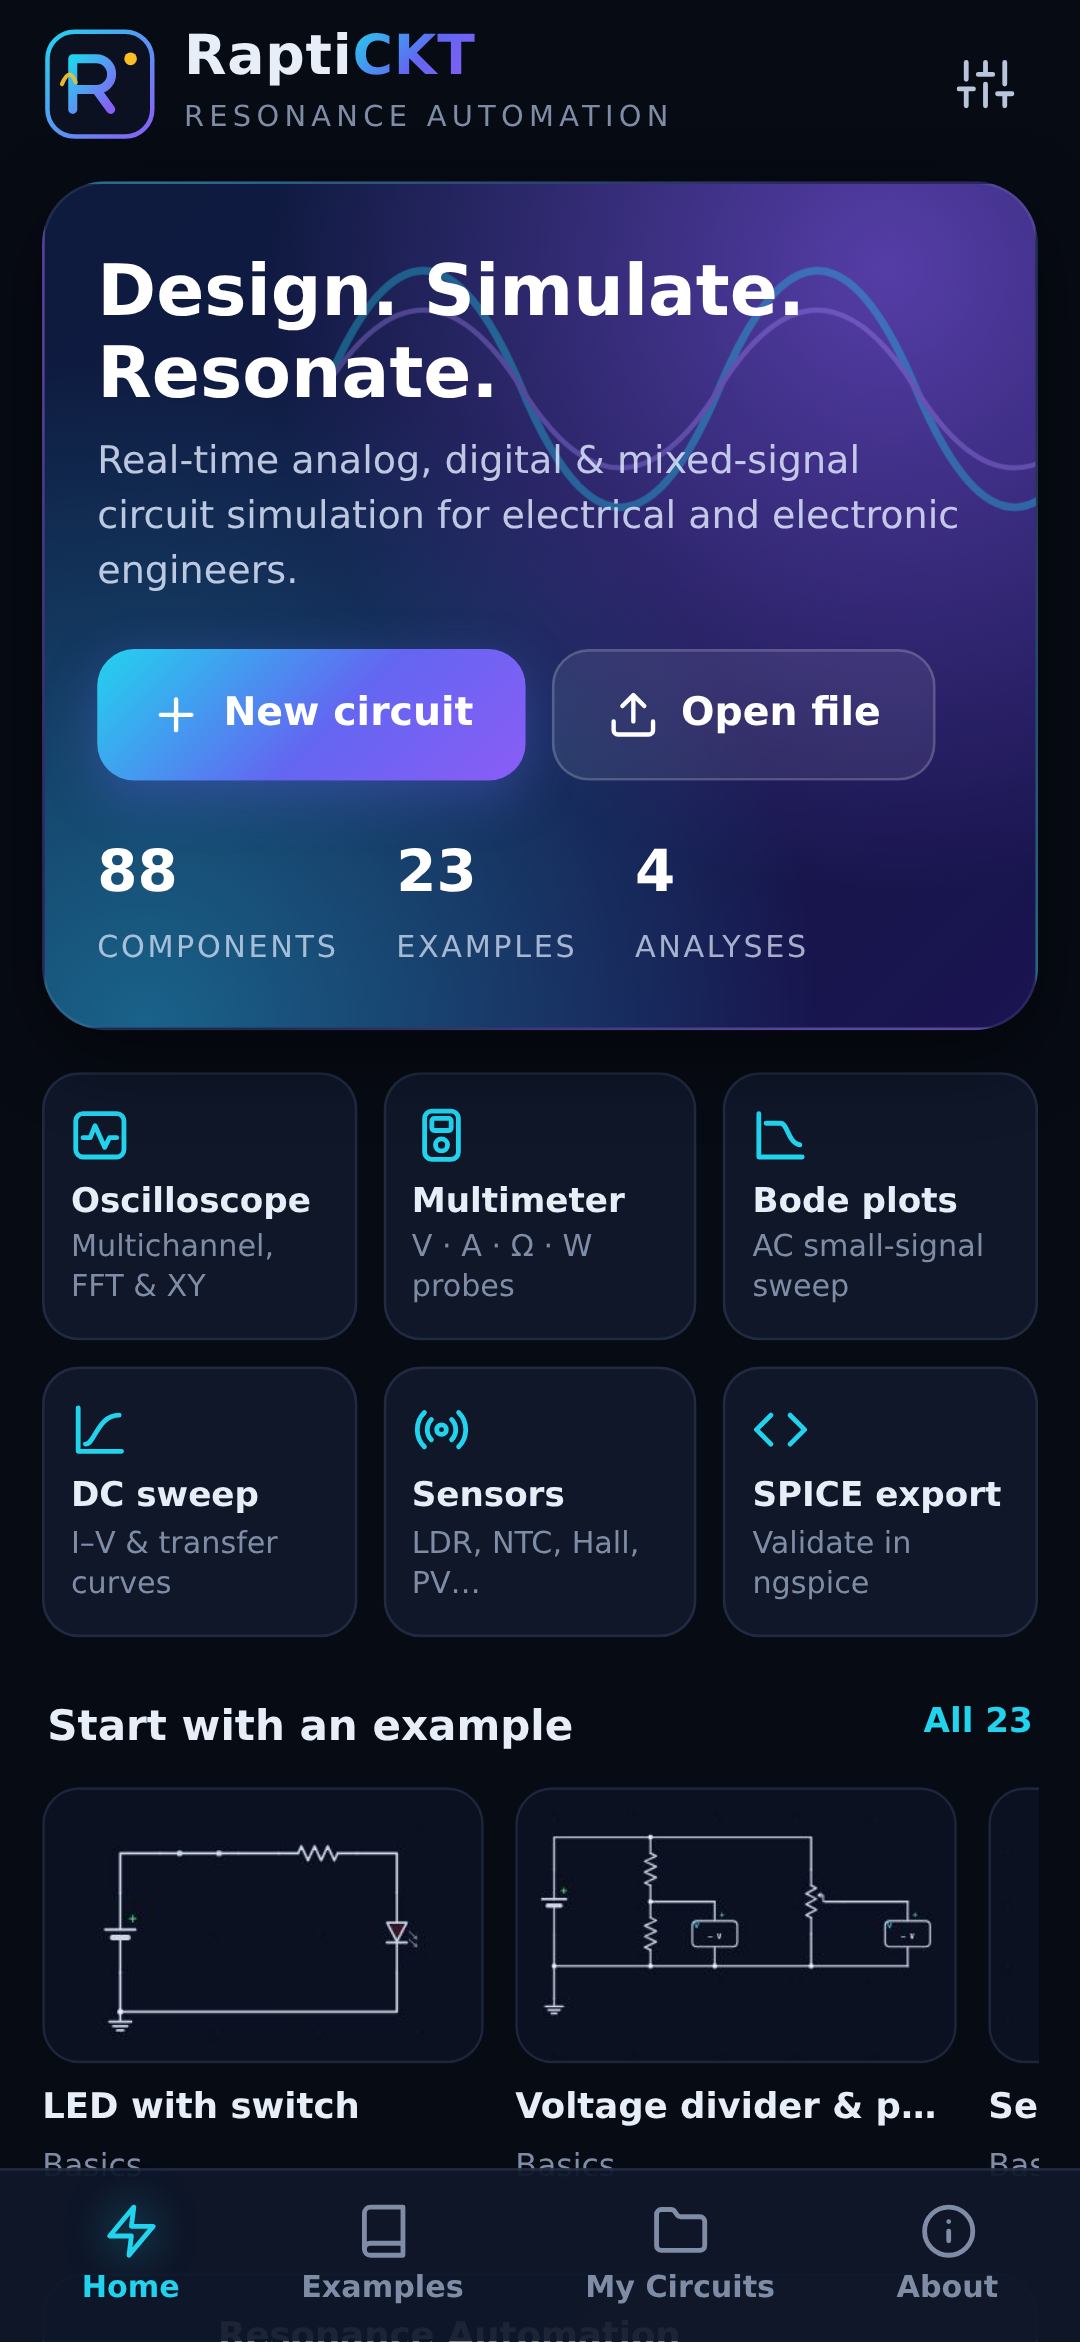
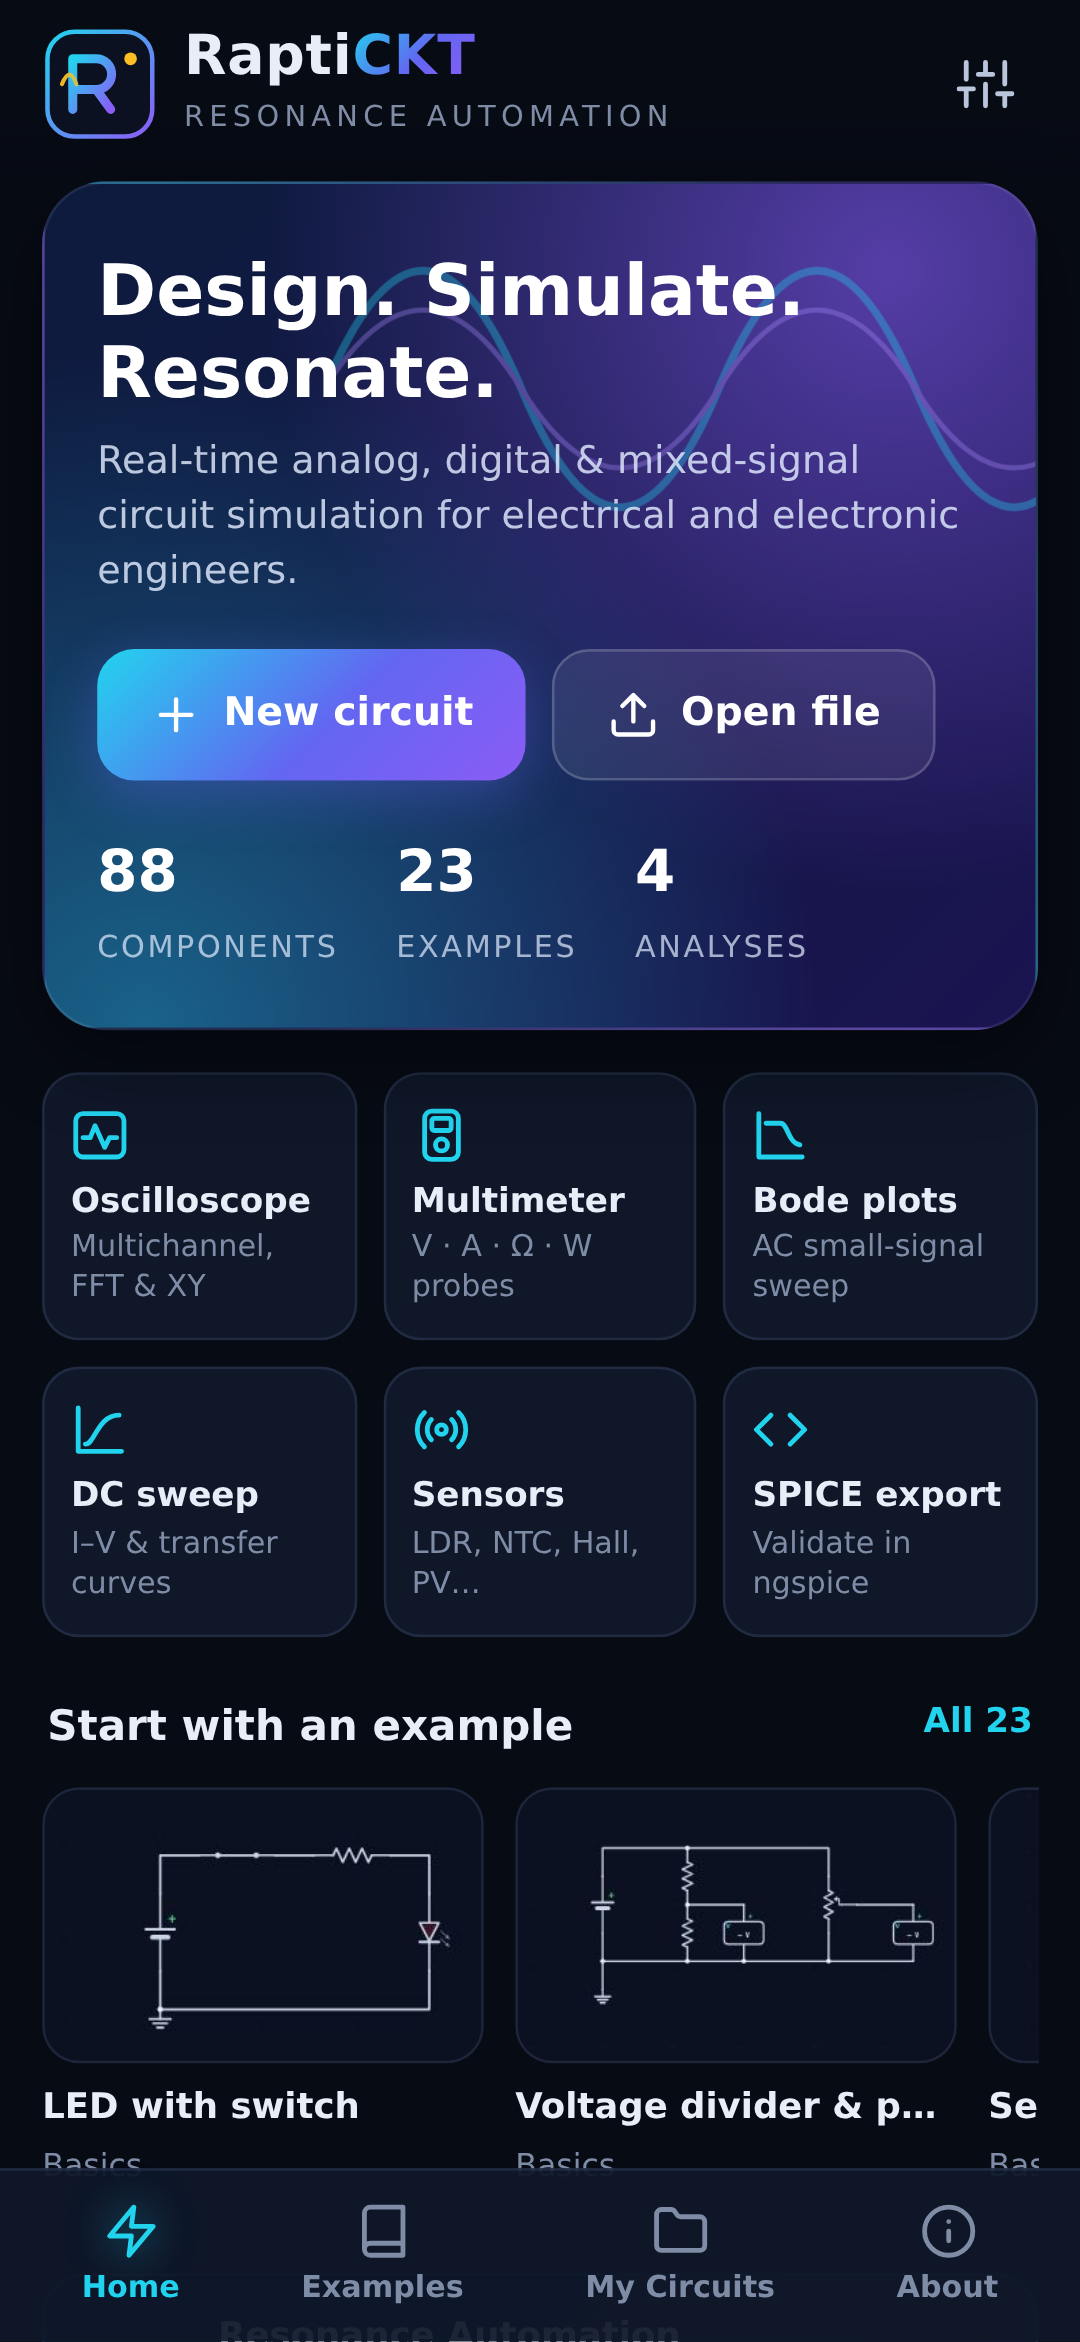
Show live voltages and currents on the schematic
While the simulation runs, every net shows its voltage (blue) and every
two-terminal part shows its current with a direction arrow (green), in
the style of EveryCircuit.

- Placement is scored against part bodies, value labels, wires, probe
  pins and the other readings, so nothing overlaps. The layout is cached
  and only recomputed when the geometry or the solver changes.
- A current reading goes opposite the value label, or is stacked under
  the label when that side is crowded.
- Solver residue (below 1 nV / 100 pA) reads as zero.
- Fit reserves room for the current readings.
- New Settings toggles: "Live node voltages" and "Live currents". Both
  follow the eye button.
- Widened the half-wave rectifier example so its readings have room.

Claude-Session: https://claude.ai/code/session_0114afxraatNUHQJoUJDSS6D

diff --git a/web/src/ui/render.js b/web/src/ui/render.js
@@ -1,7 +1,7 @@
 // Canvas renderer: grid, wires, components, animated current, overlays.
 
 import { GRID } from '../elements/index.js';
-import { fmtShort } from '../engine/units.js';
+import { fmtShort, fmtSI } from '../engine/units.js';
 
 const key = (x, y) => Math.round(x) + ',' + Math.round(y);
 
@@ -353,7 +353,10 @@ export class Renderer {
     }
 
     // labels
-    if (st.settings.showValues !== false) this.drawLabels(st, g);
+    if (st.settings.showValues !== false) {
+      this.drawLabels(st, g);
+      if (running) this.drawLive(st, sim);
+    }
 
     // probes
     for (const pr of st.probes || []) this.drawProbe(pr, g, st);
@@ -464,6 +467,159 @@ export class Renderer {
       const o = e.labelAnchor();
       g.text(txt, o[0], o[1], { size: 10.5, color: th.text2, align: o[2], baseline: o[3], bold: true, follow: false });
     }
+  }
+
+  /** EveryCircuit-style live annotations: net voltages on wires, part currents beside parts. */
+  drawLive(st, sim) {
+    const ctx = this.ctx, th = st.theme, set = st.settings;
+    const volts = set.liveVolts !== false, amps = set.liveAmps !== false;
+    if (!volts && !amps) return;
+    const lay = this.liveLayout(st, sim);
+    ctx.font = '600 10px Inter, system-ui, sans-serif';
+    ctx.lineJoin = 'round';
+    ctx.lineWidth = 3;
+    ctx.strokeStyle = th.bg;
+    const put = (txt, x, y, align, base, col) => {
+      ctx.textAlign = align; ctx.textBaseline = base;
+      ctx.strokeText(txt, x, y); // halo keeps text legible over wires and grid
+      ctx.fillStyle = col; ctx.fillText(txt, x, y);
+    };
+    if (volts) {
+      for (const L of lay.volts) {
+        const v = sim.nodeVoltage(L.node);
+        put(fmtSI(Math.abs(v) < 1e-9 ? 0 : v, 'V', 3), L.x, L.y, L.align, L.base, th.vLabel);
+      }
+    }
+    if (amps) {
+      for (const L of lay.amps) {
+        const i = L.el.liveCurrent();
+        if (i == null || !Number.isFinite(i)) continue;
+        const a = Math.abs(i) < 1e-10 ? 0 : i; // gmin-level residue reads as zero
+        const arrow = !a ? '' : (a > 0 ? L.fwd : L.back) + ' ';
+        put(arrow + fmtSI(Math.abs(a), 'A', 3), L.x, L.y, L.align, L.base, th.iLabel);
+      }
+    }
+  }
+
+  /** Placement of live labels; recomputed only when the circuit geometry or the solver changes. */
+  liveLayout(st, sim) {
+    const doc = st.doc;
+    let sig = doc.wires.length + '|' + (st.settings.showNames ? 1 : 0);
+    for (const e of doc.elements) sig += '|' + e.x + ',' + e.y + ',' + e.rot + (e.flip ? 'f' : '');
+    for (const p of st.probes || []) if (p.pos) sig += '|p' + p.pos[0] + ',' + p.pos[1];
+    if (this._live && this._live.sim === sim && this._live.sig === sig) return this._live;
+
+    const VW = 50, VH = 12, AW = 56; // text extents for layout (widest typical reading)
+    const obs = [];
+    const box = (r, pad = 0, py = pad) => obs.push([r[0] - pad, r[1] - py, r[2] + pad, r[3] + py]);
+    const overlap = (r) => {
+      let a = 0;
+      for (const o of obs) {
+        const w = Math.min(r[2], o[2]) - Math.max(r[0], o[0]), h = Math.min(r[3], o[3]) - Math.max(r[1], o[1]);
+        if (w > 0 && h > 0) a += w * h;
+      }
+      return a;
+    };
+    const rectOf = (x, y, w, h, align, base) => {
+      const x1 = align === 'left' ? x : align === 'right' ? x - w : x - w / 2;
+      const y1 = base === 'top' ? y : base === 'bottom' ? y - h : y - h / 2;
+      return [x1, y1, x1 + w, y1 + h];
+    };
+
+    for (const e of doc.elements) {
+      box(e.worldBox(), 2);
+      const val = e.valueLabel();
+      const txt = st.settings.showNames && !e.constructor.noName ? e.name + (val ? ' ' + val : '') : val;
+      const r = e.labelRect(txt);
+      if (r) box(r, 9, 1); // a clear gap so two readings on one line never run together
+    }
+    // probe pins stand above their point; keep readings out from under them
+    for (const p of st.probes || []) if (p.pos) box([p.pos[0] - 14, p.pos[1] - 30, p.pos[0] + 14, p.pos[1] + 12]);
+    for (const w of doc.wires) for (let k = 1; k < w.pts.length; k++) {
+      const [a, b] = [w.pts[k - 1], w.pts[k]];
+      box([Math.min(a[0], b[0]), Math.min(a[1], b[1]), Math.max(a[0], b[0]), Math.max(a[1], b[1])], 1.5);
+    }
+
+    // currents: opposite the value label, or stacked under it when that side is crowded
+    const amps = [];
+    for (const e of doc.elements) {
+      if (e.liveCurrent() == null) continue;
+      const [sx, sy] = e.labelSide();
+      const val = e.valueLabel();
+      const cands = [];
+      const push = (x, y, align, base, pen) => cands.push({ x, y, align, base: base === 'alphabetic' ? 'bottom' : base, pen });
+      const [ox, oy, oa, ob] = e.labelAnchor([-sx, -sy]);
+      push(ox, oy, oa, ob, 0);
+      if (ob === 'middle') { push(ox, oy + 14, oa, 'middle', 6); push(ox, oy - 14, oa, 'middle', 7); }
+      const [vx, vy, va, vb] = e.labelAnchor();
+      if (!val) push(vx, vy, va, vb, 2);
+      else if (vb === 'middle') { push(vx, vy + 14, va, 'middle', 3); push(vx, vy - 14, va, 'middle', 4); }
+      else if (vb === 'top') push(vx, vy + 14, va, 'top', 4);
+      else push(vx, vy - 14, va, 'bottom', 5);
+      let best = null, bestScore = Infinity;
+      for (const c of cands) {
+        const r = rectOf(c.x, c.y, AW, VH, c.align, c.base);
+        const sc = overlap(r) * 2 + c.pen;
+                if (sc < bestScore) { bestScore = sc; best = { ...c, r }; }
+      }
+      const [p0, p1] = e.getPosts();
+      const dx = p1[0] - p0[0], dy = p1[1] - p0[1];
+      const dir = (ux, uy) => Math.abs(ux) >= Math.abs(uy) ? (ux > 0 ? '→' : '←') : (uy > 0 ? '↓' : '↑');
+      amps.push({ el: e, x: best.x, y: best.y, align: best.align, base: best.base, fwd: dir(dx, dy), back: dir(-dx, -dy) });
+      box(best.r, 9, 1);
+    }
+
+    // one voltage label per net, on the free-est stretch of its wiring
+    const nets = new Map();
+    const net = (n) => { if (!nets.has(n)) nets.set(n, { segs: [], posts: [] }); return nets.get(n); };
+    const wn = sim.wireNodes && sim.wireNodes.length === doc.wires.length ? sim.wireNodes : null;
+    if (wn) doc.wires.forEach((w, i) => {
+      if (wn[i] < 0) return;
+      for (let k = 1; k < w.pts.length; k++) net(wn[i]).segs.push([w.pts[k - 1], w.pts[k]]);
+    });
+    for (const e of doc.elements) {
+      const ps = e.getPosts();
+      (e.nodes || []).forEach((n, k) => { if (n >= 0 && ps[k]) net(n).posts.push(ps[k]); });
+    }
+    const volts = [];
+    const order = [...nets.keys()].sort((a, b) => a - b);
+    for (const n of order) {
+      const { segs, posts } = nets.get(n);
+      const cands = [];
+      for (const [a, b] of segs) {
+        const len = Math.hypot(b[0] - a[0], b[1] - a[1]);
+        if (len < GRID * 0.9) continue;
+        const horiz = a[1] === b[1];
+        for (const t of [0.5, 0.3, 0.7, 0.15, 0.85]) {
+          const x = a[0] + (b[0] - a[0]) * t, y = a[1] + (b[1] - a[1]) * t;
+          if (horiz) {
+            const room = len >= VW + 8 ? 0 : 12; // prefer stretches wide enough for the text
+            cands.push({ x, y: y - 5, align: 'center', base: 'bottom', pen: room + Math.abs(t - 0.5) * 6 });
+            cands.push({ x, y: y + 5, align: 'center', base: 'top', pen: room + 4 + Math.abs(t - 0.5) * 6 });
+          } else {
+            cands.push({ x: x + 6, y, align: 'left', base: 'middle', pen: 10 + Math.abs(t - 0.5) * 6 });
+            cands.push({ x: x - 6, y, align: 'right', base: 'middle', pen: 12 + Math.abs(t - 0.5) * 6 });
+          }
+        }
+      }
+      for (const [x, y] of posts) {
+        cands.push({ x: x + 5, y: y - 5, align: 'left', base: 'bottom', pen: 30 });
+        cands.push({ x: x - 5, y: y - 5, align: 'right', base: 'bottom', pen: 32 });
+        cands.push({ x: x + 5, y: y + 5, align: 'left', base: 'top', pen: 34 });
+        cands.push({ x: x - 5, y: y + 5, align: 'right', base: 'top', pen: 36 });
+      }
+      let best = null, bestScore = Infinity;
+      for (const c of cands) {
+        const r = rectOf(c.x, c.y, VW, VH, c.align, c.base);
+        const sc = overlap(r) * 2 + c.pen;
+        if (sc < bestScore) { bestScore = sc; best = { ...c, r }; }
+      }
+      if (!best) continue;
+      box(best.r, 2);
+      volts.push({ node: n, x: best.x, y: best.y, align: best.align, base: best.base });
+    }
+    this._live = { sim, sig, volts, amps };
+    return this._live;
   }
 
   drawProbe(pr, g, st) {

diff --git a/web/src/ui/theme.js b/web/src/ui/theme.js
@@ -8,7 +8,7 @@ export const THEMES = {
     accent: '#22d3ee', accent2: '#a78bfa', select: '#22d3ee',
     pos: '#4ade80', neg: '#f87171', neutral: [125, 138, 160], posRGB: [74, 222, 128], negRGB: [248, 113, 113],
     dot: '#fbbf24', hi: '#4ade80', lo: '#475569', hiFill: 'rgba(34,197,94,0.85)', loFill: 'rgba(71,85,105,0.9)', hiRGB: '74,222,128',
-    junction: '#e8eef8',
+    junction: '#e8eef8', vLabel: '#8fa2ff', iLabel: '#4ade80',
   },
   amoled: {
     name: 'AMOLED Black',
@@ -17,7 +17,7 @@ export const THEMES = {
     accent: '#22d3ee', accent2: '#a78bfa', select: '#22d3ee',
     pos: '#4ade80', neg: '#f87171', neutral: [120, 130, 150], posRGB: [74, 222, 128], negRGB: [248, 113, 113],
     dot: '#fbbf24', hi: '#4ade80', lo: '#475569', hiFill: 'rgba(34,197,94,0.85)', loFill: 'rgba(71,85,105,0.9)', hiRGB: '74,222,128',
-    junction: '#f1f5f9',
+    junction: '#f1f5f9', vLabel: '#8fa2ff', iLabel: '#4ade80',
   },
   light: {
     name: 'Blueprint Light',
@@ -26,6 +26,6 @@ export const THEMES = {
     accent: '#0891b2', accent2: '#7c3aed', select: '#0891b2',
     pos: '#16a34a', neg: '#dc2626', neutral: [100, 116, 139], posRGB: [22, 163, 74], negRGB: [220, 38, 38],
     dot: '#d97706', hi: '#16a34a', lo: '#94a3b8', hiFill: 'rgba(22,163,74,0.9)', loFill: 'rgba(100,116,139,0.85)', hiRGB: '22,163,74',
-    junction: '#0f172a',
+    junction: '#0f172a', vLabel: '#4338ca', iLabel: '#15803d',
   },
 };

diff --git a/web/src/elements/base.js b/web/src/elements/base.js
@@ -143,12 +143,15 @@ export class Element {
   draw(g) {
     g.box(-GRID * 0.8, -GRID * 0.5, GRID * 0.8, GRID * 0.5);
   }
+  /** Current (post 0 → post 1) shown as a live annotation; null for parts that have none. */
+  liveCurrent() { return this.localPosts().length === 2 && this.postCurrents.length === 2 ? this.postCurrents[0] : null; }
+
   /** side (local unit vector) on which the value label is placed, outside the part */
   labelSide() { return [0, -1]; }
 
   /** World anchor for the value label: [x, y, align, baseline]. */
-  labelAnchor() {
-    const [sx, sy] = this.labelSide();
+  labelAnchor(side = this.labelSide()) {
+    const [sx, sy] = side;
     const [ox, oy] = this.toWorld(0, 0), [px, py] = this.toWorld(sx, sy);
     const dx = Math.round(px - ox), dy = Math.round(py - oy);
     const [x1, y1, x2, y2] = this.worldBox();
@@ -160,10 +163,10 @@ export class Element {
   }
 
   /** Approximate world rectangle covered by the label text (for Fit). */
-  labelRect(txt) {
+  labelRect(txt, side) {
     if (!txt) return null;
-    const [x, y, al, bl] = this.labelAnchor();
-    const w = txt.length * 6.4, h = 12;
+    const [x, y, al, bl] = this.labelAnchor(side);
+    const w = txt.length * 6.8, h = 12;
     const lx = al === 'left' ? x : al === 'right' ? x - w : x - w / 2;
     const ty = bl === 'top' ? y : bl === 'middle' ? y - h / 2 : y - h;
     return [lx, ty, lx + w, ty + h];

diff --git a/web/src/ui/examples.js b/web/src/ui/examples.js
@@ -159,13 +159,13 @@ export const EXAMPLES = [
     desc: 'The diode conducts only on positive half-cycles; the 470 µF reservoir capacitor holds the voltage up between peaks. Ripple ≈ I/(f·C).',
     build(b) {
       b.v('acv', 0, 0, { amp: 12, freq: 50 });
-      b.h('diode', 4, -4, { model: '1N4007', is: 7e-9, n: 1.9, bv: 1000 });
-      b.v('ecap', 8, 0, { c: 470e-6 });
-      b.v('resistor', 12, 0, { r: 1000 });
+      b.h('diode', 5, -4, { model: '1N4007', is: 7e-9, n: 1.9, bv: 1000 });
+      b.v('ecap', 10, 0, { c: 470e-6 });
+      b.v('resistor', 15, 0, { r: 1000 });
       b.el('ground', 0, 6);
-      b.w([0, -2], [0, -4], [2, -4]); b.w([6, -4], [8, -4], [8, -2]); b.w([8, -4], [12, -4], [12, -2]);
-      b.w([12, 2], [12, 4], [0, 4]); b.w([8, 2], [8, 4]); b.w([0, 2], [0, 4]); b.w([0, 4], [0, 6]);
-      b.node(0, -4, C[0]); b.node(12, -4, C[1]);
+      b.w([0, -2], [0, -4], [3, -4]); b.w([7, -4], [10, -4], [10, -2]); b.w([10, -4], [15, -4], [15, -2]);
+      b.w([15, 2], [15, 4], [0, 4]); b.w([10, 2], [10, 4]); b.w([0, 2], [0, 4]); b.w([0, 4], [0, 6]);
+      b.node(0, -4, C[0]); b.node(15, -4, C[1]);
     },
   },
   {

diff --git a/web/src/ui/screens.js b/web/src/ui/screens.js
@@ -260,6 +260,8 @@ export function renderSettings(app, root) {
       ${row('Capacitor charge', tog('showCharge'), '± signs on capacitor plates')}
       ${row('Value labels', tog('showValues'))}
       ${row('Component names', tog('showNames'))}
+      ${row('Live node voltages', tog('liveVolts'), 'Voltage of every net written on its wire')}
+      ${row('Live currents', tog('liveAmps'), 'Current and its direction beside each part')}
       <h4>Simulation</h4>
       ${row('Integration method', sel('method', [['trap', 'Trapezoidal (accurate)'], ['be', 'Backward Euler (damped)']]))}
       ${row('Start from DC operating point', tog('initialDC'), 'Off = power-on from zero state')}

diff --git a/web/src/ui/doc.js b/web/src/ui/doc.js
@@ -77,6 +77,8 @@ export class CircuitDoc {
       grow(e.worldBox());
       const r = e.labelRect(e.valueLabel());
       if (r) grow(r);
+      // room for the live current reading on the opposite side
+      if (e.liveCurrent() != null) { const [sx, sy] = e.labelSide(); grow(e.labelRect('↓ 000.0 mA', [-sx, -sy])); }
     }
     for (const w of this.wires) for (const [x, y] of w.pts) { x1 = Math.min(x1, x); y1 = Math.min(y1, y); x2 = Math.max(x2, x); y2 = Math.max(y2, y); }
     if (!Number.isFinite(x1)) return null;

diff --git a/web/src/elements/meters.js b/web/src/elements/meters.js
@@ -24,6 +24,7 @@ class Meter extends TwoTerm {
     }
   }
   valueLabel() { return ''; }
+  liveCurrent() { return null; } // the display already shows the reading
   // The display is always drawn upright, so its extent along the leads depends on rotation.
   half() { return (this.rot & 1) ? [0.8 * G, 1.4 * G] : [1.4 * G, 0.8 * G]; }
   localBox() { const [a, b] = this.half(); return [-2 * G, -b, 2 * G, b]; }

diff --git a/web/src/ui/store.js b/web/src/ui/store.js
@@ -11,6 +11,8 @@ export const DEFAULT_SETTINGS = {
   voltColors: true,
   showValues: true,
   showNames: false,
+  liveVolts: true,
+  liveAmps: true,
   showCharge: true,
   haptics: true,
   sound: true,

diff --git a/README.md b/README.md
@@ -26,6 +26,7 @@ Every push is built by GitHub Actions (`.github/workflows/android.yml`), which p
   - Switches: SPST, SPDT, push buttons, relay
   - Outputs: lamp, LED, 7-segment, DC motor, buzzer
   - Meters: voltmeter, ammeter, ohmmeter, wattmeter
+- **Live readings on the schematic**: while the simulation runs, every net shows its voltage (blue) and every two-terminal part shows its current with a direction arrow (green), placed so they never overlap. Both can be switched off in Settings.
 - **Oscilloscope**: 6 channels with auto-scale, frequency/RMS/p-p, FFT spectrum, XY mode and CSV export.
 - **Multimeter**: draggable probes for V (DC + true RMS), A, Ω (small-signal) and W.
 - **Analyses**:
